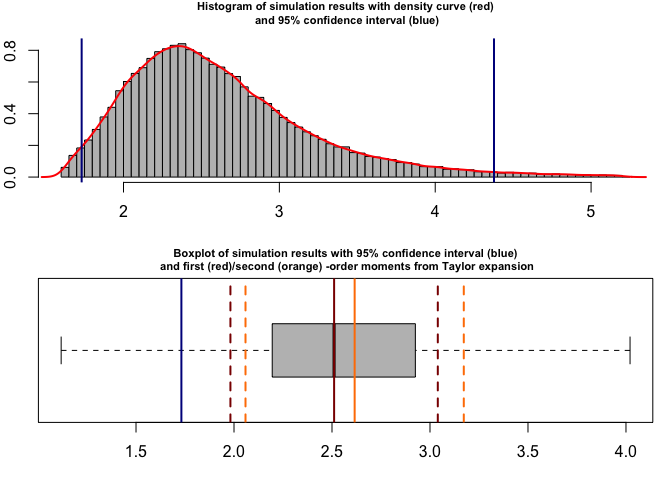
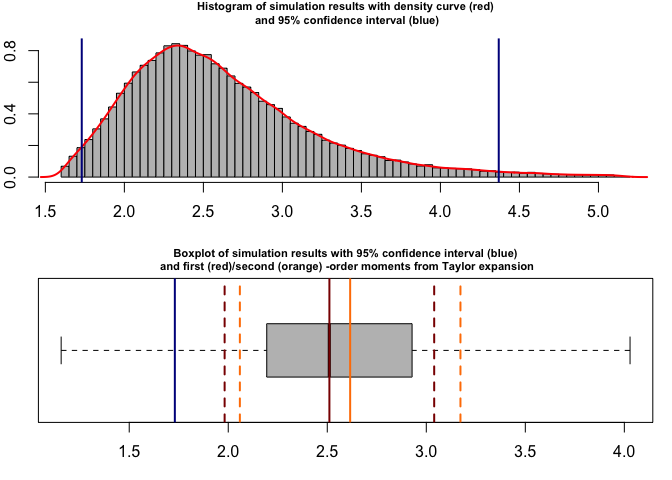
with new text

diff --git a/analysis.md b/analysis.md
@@ -1,4 +1,4 @@
-analysis
+Analysis for Maricar
 ================
 Bruno Hérault
 12/13/2017
@@ -75,11 +75,11 @@ RES11
 
     ## Results from error propagation:
     ##    Mean.1    Mean.2      sd.1      sd.2      2.5%     97.5% 
-    ## 2.5107806 2.6155655 0.5290829 0.5569026 1.5207842 3.7015562 
+    ## 2.5107806 2.6155655 0.5290829 0.5569026 1.5233690 3.7142806 
     ## 
     ## Results from Monte Carlo simulation:
     ##      Mean        sd    Median       MAD      2.5%     97.5% 
-    ## 2.6568239 1.0436439 2.5105640 0.5249441 1.7321314 4.3912055
+    ## 2.6513116 0.9898522 2.5100511 0.5269984 1.7303302 4.3691426
 
 ``` r
 plot(RES11)
